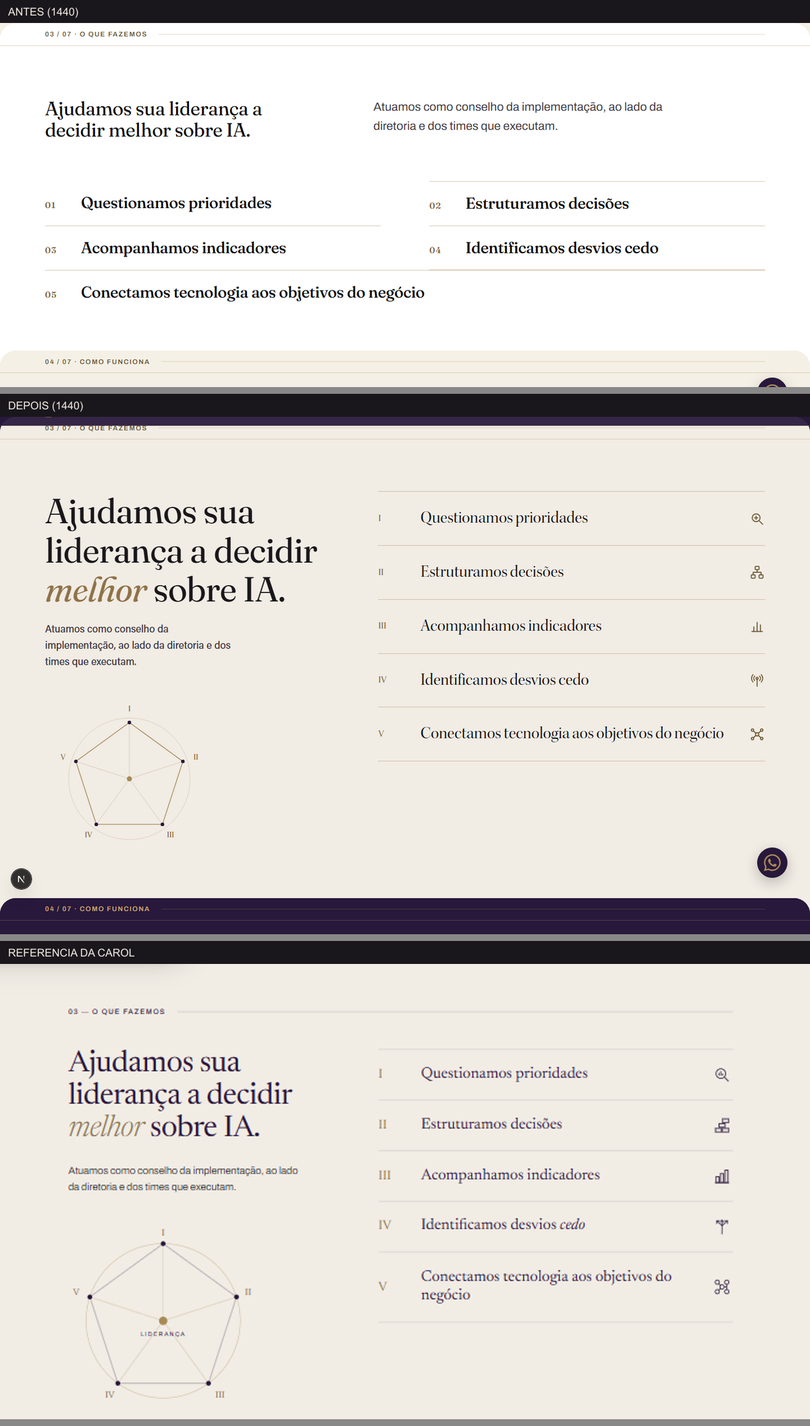
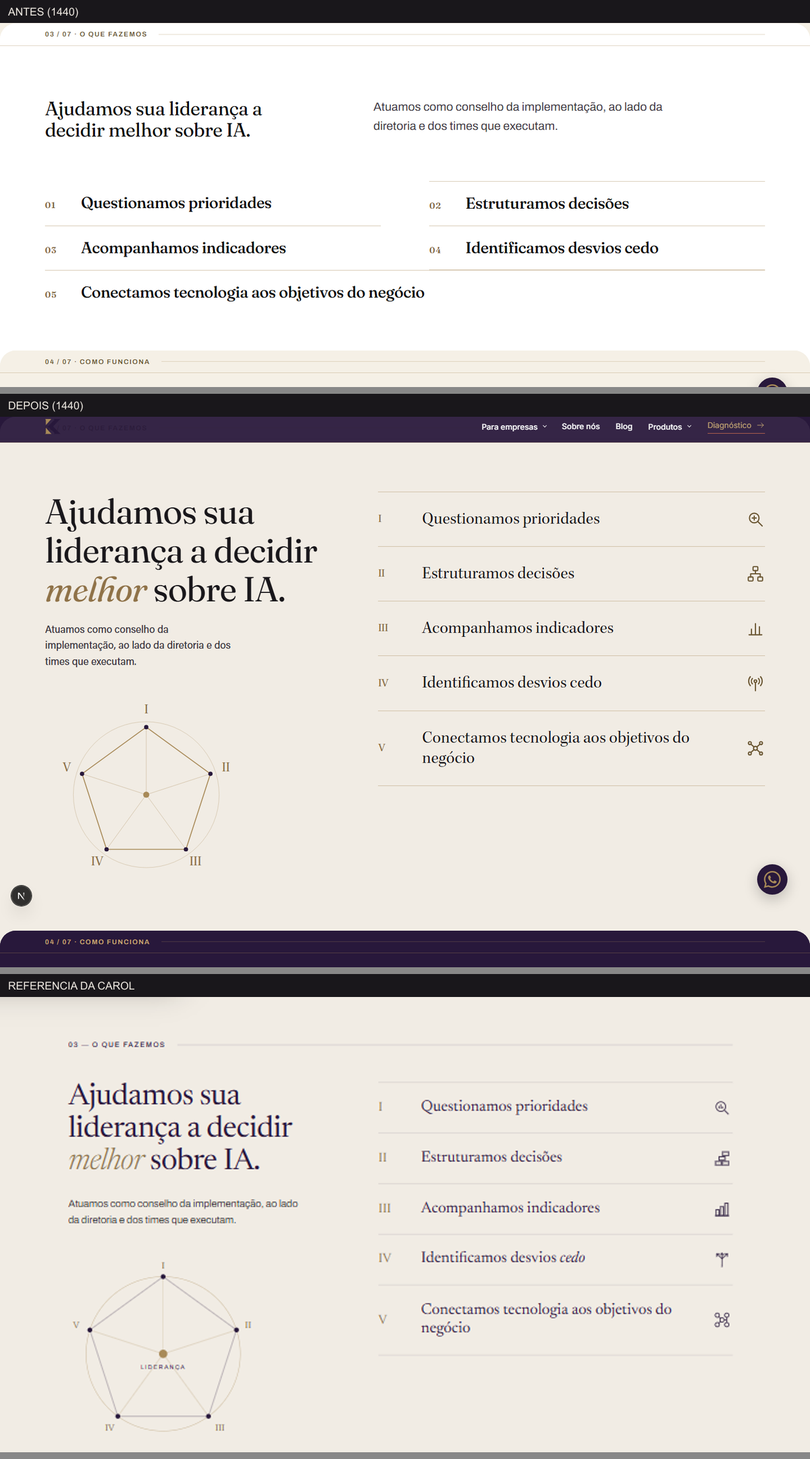
fix(site): Advisory V3 rodada de correcoes: cartoes alinhados, subhead nas linhas pequenas, novo recorte da foto e kit sem bloquear a pintura
V4 com pe em itulico nos tres cartoes (subgrid); V2 ponto final nos quatro itens; V3 romanos e icones maiores;
kepler-std-subhead com tracking 0 abaixo de ~30px; foto reenquadrada sem plaquinhas e arco acima da cortina;
preload + KitFonts (reserva com size-adjust) no lugar do link bloqueante. Relatorio, capturas, quadros e web vitals refeitos.

diff --git a/apps/site/src/app/solucoes/advisory-v3.module.css b/apps/site/src/app/solucoes/advisory-v3.module.css
@@ -19,14 +19,14 @@
 /* Linha do tempo: uma linha fina com um ponto por frase, cada frase numa coluna com filete. */
 .avEvents { list-style: none; margin: clamp(40px, 5vw, 72px) 0 0; padding: 0; display: grid; grid-template-columns: repeat(4, minmax(0, 1fr)); position: relative; }
 .avEvents::before { content: ""; position: absolute; left: 0; right: 0; top: 3px; height: 1px; background: rgba(40, 24, 59, 0.22); }
-.avEvents li { position: relative; padding: 32px 24px 4px 0; font-family: var(--font-title); font-style: italic; font-size: clamp(19px, 1.7vw, 24px); line-height: 1.25; color: var(--ink-text); }
+.avEvents li { position: relative; padding: 32px 24px 4px 0; font-family: var(--font-sub); letter-spacing: 0; font-style: italic; font-size: clamp(19px, 1.7vw, 24px); line-height: 1.3; color: var(--ink-text); }
 .avEvents li + li { padding-left: 24px; border-left: 1px solid var(--rule); }
 .avEvents li::before { content: ""; position: absolute; top: 0; left: 0; width: 7px; height: 7px; border-radius: 50%; background: #b7654d; }
 .avEvents li + li::before { left: 24px; }
 .avEvents li:first-child::before { background: var(--imperial); }
 .avEvents li span { display: block; max-width: 18ch; }
 .avEvents li span::first-letter { text-transform: uppercase; }
-.avEvents li:last-child span::after { content: "."; }
+.avEvents li span::after { content: "."; }
 
 .avProblemBottom { background: var(--imperial); color: var(--limestone); padding: clamp(56px, 6.4vw, 96px) 0 calc(clamp(56px, 6.4vw, 96px) + 36px); margin-bottom: -36px; }
 .avSignature { display: grid; grid-template-columns: minmax(0, 8fr) minmax(0, 4fr); gap: clamp(24px, 5vw, 80px); align-items: center; }
@@ -40,34 +40,36 @@
 .avMarks li { display: grid; gap: 10px; align-content: start; padding: 24px 20px 0 0; font-size: clamp(16px, 1.3vw, 19px); line-height: 1.35; color: var(--limestone); }
 .avMarks li + li { padding-left: 24px; border-left: 1px solid rgba(196, 166, 115, 0.3); }
 .avMarks li span:last-child::first-letter { text-transform: uppercase; }
-.avNum { font-family: var(--font-title); font-size: 24px; line-height: 1; color: var(--gold-light); font-variant-numeric: tabular-nums; }
+.avNum { font-family: var(--font-sub); letter-spacing: 0; font-size: 26px; line-height: 1; color: var(--gold-light); font-variant-numeric: tabular-nums; }
 
 /* ---------- V3: liderança (pentágono + uma coluna de cinco linhas) ---------- */
 .avLeadGrid { display: grid; grid-template-columns: minmax(0, 5fr) minmax(0, 7fr); gap: clamp(32px, 7vw, 120px); align-items: start; }
 .avLeadIntro h2 { font-size: clamp(36px, 4.3vw, 62px); line-height: 1.04; max-width: 13ch; }
 .avLeadIntro p { margin: 22px 0 0; font-size: clamp(16px, 1.25vw, 18px); line-height: 1.6; color: var(--text-2); max-width: 34ch; }
-.avPentFig { margin: clamp(28px, 4vw, 52px) 0 0; width: min(100%, 300px); color: var(--gold); }
+.avPentFig { margin: clamp(28px, 4vw, 52px) 0 0; width: min(100%, 360px); color: var(--gold); }
 .avPentagon { display: block; width: 100%; height: auto; overflow: visible; }
-.avRoman { font-family: var(--font-title); font-size: 15px; fill: var(--gold-text); }
+.avRoman { font-family: var(--font-sub); font-size: 20px; letter-spacing: 0; fill: var(--gold-text); }
 
 .avItems { list-style: none; margin: 0; padding: 0; border-top: 1px solid var(--rule); border-bottom: 1px solid var(--rule); }
-.avItems li { display: grid; grid-template-columns: clamp(40px, 4.4vw, 64px) minmax(0, 1fr) 32px; align-items: center; gap: 12px; padding: clamp(20px, 2.2vw, 30px) 0; }
+.avItems li { display: grid; grid-template-columns: clamp(44px, 4.6vw, 68px) minmax(0, 1fr) 40px; align-items: center; gap: 12px; padding: clamp(20px, 2.2vw, 30px) 0; }
 .avItems li + li { border-top: 1px solid var(--rule); }
-.avRomanNum { font-family: var(--font-title); font-size: 17px; color: var(--gold-text); font-variant-numeric: tabular-nums; }
-.avItemText { font-family: var(--font-title); font-size: clamp(22px, 2.1vw, 31px); line-height: 1.15; letter-spacing: -0.01em; color: var(--ink-text); }
-.avIcon { width: 28px; height: 28px; justify-self: end; color: #6b5733; flex: none; }
+.avRomanNum { font-family: var(--font-sub); letter-spacing: 0; font-size: 20px; color: var(--gold-text); font-variant-numeric: tabular-nums; }
+.avItemText { font-family: var(--font-sub); font-size: clamp(22px, 2.1vw, 31px); line-height: 1.2; letter-spacing: 0; color: var(--ink-text); }
+.avIcon { width: 34px; height: 34px; justify-self: end; color: #6b5733; flex: none; }
 
 /* ---------- V4: rituais (Imperial, cartões Aubergine, faixa Limestone) ---------- */
 .avRituals { background: var(--imperial); color: var(--limestone); padding: clamp(56px, 6.4vw, 96px) 0; }
 .avRitualsTitle { font-size: clamp(36px, 4.4vw, 64px); line-height: 1.04; max-width: 20ch; margin-bottom: clamp(36px, 4.5vw, 64px) !important; }
-.avCards { list-style: none; margin: 0; padding: 0; display: grid; grid-template-columns: repeat(3, minmax(0, 1fr)); gap: clamp(14px, 1.6vw, 24px); }
-.avCards li { display: flex; flex-direction: column; gap: 14px; padding: clamp(24px, 2.4vw, 36px); background: #46304f; border-radius: 18px; box-shadow: inset 0 0 0 1px rgba(196, 166, 115, 0.2); }
+/* Linhas compartilhadas (subgrid): ícone, título, texto e pé ficam na mesma altura nos três cartões; o filete do pé alinha. */
+.avCards { list-style: none; margin: 0; padding: 0; display: grid; grid-template-columns: repeat(3, minmax(0, 1fr)); grid-template-rows: auto auto 1fr auto; column-gap: clamp(14px, 1.6vw, 24px); row-gap: 0; }
+.avCards li { display: grid; grid-row: span 4; grid-template-rows: subgrid; row-gap: 14px; align-content: start; padding: clamp(24px, 2.4vw, 36px); background: #46304f; border-radius: 18px; box-shadow: inset 0 0 0 1px rgba(196, 166, 115, 0.2); }
 .avCardIcon { color: var(--gold-light); margin-bottom: 12px; }
-.avCards h3 { margin: 0; font-size: clamp(26px, 2.3vw, 34px); line-height: 1.1; color: var(--limestone); }
+.avCards h3 { margin: 0; font-size: clamp(26px, 2.3vw, 34px); line-height: 1.1; letter-spacing: 0; color: var(--limestone); }
 .avCards p { margin: 0; font-size: 17px; line-height: 1.55; color: rgba(241, 236, 228, 0.78); }
-.avCards .avCardFoot { margin-top: auto; padding-top: 20px; position: relative; font-family: var(--font-title); font-style: italic; font-size: clamp(17px, 1.4vw, 20px); line-height: 1.35; color: var(--gold-light); }
+.avCards .avCardFoot { padding-top: 20px; position: relative; font-family: var(--font-sub); letter-spacing: 0; font-style: italic; font-size: clamp(18px, 1.45vw, 21px); line-height: 1.35; color: var(--gold-light); }
 .avCards .avCardFoot::before { content: ""; position: absolute; left: 0; right: 0; top: 0; height: 1px; background: rgba(196, 166, 115, 0.35); }
-.avCards li:has(.avCardFoot) h3 + p { margin-bottom: 14px; }
+.avCards .avCardFoot::first-letter { text-transform: uppercase; }
+.avCards li > p:not(.avCardFoot) { margin-bottom: 18px; }
 
 .avReceive { margin-top: clamp(16px, 1.8vw, 24px); background: var(--limestone); color: var(--ink-text); border-radius: 18px; padding: clamp(22px, 2.4vw, 32px) clamp(24px, 3vw, 44px); }
 .avReceiveLabel { margin: 0 0 20px; font-size: 13px; font-weight: var(--w-strong); letter-spacing: 0.14em; text-transform: uppercase; color: var(--ink-text); }
@@ -75,7 +77,7 @@
 .avReceive li { display: flex; align-items: center; gap: 16px; padding: 4px 24px; }
 .avReceive li:first-child { padding-left: 0; }
 .avReceive li + li { border-left: 1px solid var(--rule); }
-.avReceive li span { font-family: var(--font-title); font-size: clamp(17px, 1.5vw, 21px); line-height: 1.3; }
+.avReceive li span { font-family: var(--font-sub); letter-spacing: 0; font-size: clamp(18px, 1.55vw, 22px); line-height: 1.3; }
 .avReceive li span::first-letter { text-transform: uppercase; }
 
 /* ---------- Telas menores ---------- */
@@ -97,8 +99,9 @@
   .avMarks li:nth-child(n + 3) { margin-top: 8px; border-top: 1px solid rgba(196, 166, 115, 0.3); }
   .avPentFig { width: min(78%, 280px); margin-left: auto; margin-right: auto; }
 
-  .avCards { grid-template-columns: minmax(0, 1fr); }
-  .avCards .avCardFoot { margin-top: 6px; }
+  .avCards { grid-template-columns: minmax(0, 1fr); grid-template-rows: none; row-gap: 14px; }
+  .avCards li { display: flex; flex-direction: column; grid-row: auto; gap: 14px; }
+  .avCards li > p:not(.avCardFoot) { margin-bottom: 0; }
   .avReceive ul { grid-template-columns: minmax(0, 1fr); }
   .avReceive li, .avReceive li:first-child { padding: 16px 0; }
   .avReceive li + li { border-left: 0; border-top: 1px solid var(--rule); }

diff --git a/apps/site/src/app/institucional/pages.ts b/apps/site/src/app/institucional/pages.ts
@@ -15,7 +15,8 @@ export type Block =
       eyebrow?: string;
       title: string[];
       intro?: string[];
-      items: Array<{ title: string; text: string; example?: string; href?: string; cta?: string }>;
+      /* `foot`: trecho final de `text` que a Advisory mostra à parte (pé do cartão, em itálico). O texto não muda. */
+      items: Array<{ title: string; text: string; example?: string; href?: string; cta?: string; foot?: string }>;
       columns?: 2 | 3;
       animated?: boolean;
       accent?: string;
@@ -443,7 +444,7 @@ export const advisory: PageContent = {
       support: "Ao lado da liderança. Dentro da execução.",
       cta: { label: "Conversar com um sócio", href: formHref("advisory") },
       /* Foto da capacitação na Fundação Dom Cabral (Drive), recortada para não mostrar as plaquinhas com os nomes dos alunos. */
-      image: { src: "/advisory/comite-fdc.webp", alt: "Palestrante da Kalidash conduz uma capacitação em IA numa sala da Fundação Dom Cabral, com a tela do assistente projetada ao fundo", width: 800, height: 1000 },
+      image: { src: "/advisory/comite-fdc.webp", alt: "Palestrante da Kalidash conduz uma capacitação em IA numa sala da Fundação Dom Cabral, com a tela do assistente projetada ao fundo", width: 664, height: 830 },
       aspect: "landscape",
     },
     {
@@ -480,8 +481,8 @@ export const advisory: PageContent = {
       accent: "rituais",
       items: [
         { title: "Comitê de IA", text: "Encontro mensal com a liderança para revisar prioridades, indicadores e decisões em aberto. É o ritual que impede a iniciativa de morrer na primeira urgência do mês." },
-        { title: "Acompanhamento de iniciativas", text: "Proximidade com os times que executam, para destravar o que emperrou antes de virar problema de diretoria." },
-        { title: "Mentoria executiva", text: "Conversas individuais com líderes que conduzem a mudança e precisam de um olhar externo e experiente." },
+        { title: "Acompanhamento de iniciativas", text: "Proximidade com os times que executam, para destravar o que emperrou antes de virar problema de diretoria.", foot: "antes de virar problema de diretoria." },
+        { title: "Mentoria executiva", text: "Conversas individuais com líderes que conduzem a mudança e precisam de um olhar externo e experiente.", foot: "e precisam de um olhar externo e experiente." },
       ],
       // Exemplo sugerido pela Carol entre colchetes no doc; confirmar os entregáveis reais.
       closing: ["**O que a liderança recebe:** painel com os indicadores das iniciativas · relatório mensal de decisões e desvios · roadmap priorizado, revisado a cada trimestre."],

diff --git a/apps/site/src/app/solucoes/kit.module.css b/apps/site/src/app/solucoes/kit.module.css
@@ -300,8 +300,10 @@ header.long h1 { font-size: clamp(40px, 6vw, 88px); }
  * Hoje o kit tem 400 e 700; quando a Carol incluir Light e Semibold, troque só --w-title (300) e --w-strong (600) aqui.
  * Títulos nunca em 700. */
 .v3 .main {
-  --font-title: "kepler-std-display", Georgia, "Times New Roman", serif;
-  --font-body: "acumin-pro", system-ui, -apple-system, "Segoe UI", sans-serif;
+  /* Até o kit carregar (data-fonts="ready", posto por KitFonts.tsx) valem as reservas com métrica ajustada. */
+  --font-title: "kit-kepler-reserva", Georgia, "Times New Roman", serif;
+  --font-sub: "kit-kepler-reserva", Georgia, "Times New Roman", serif;
+  --font-body: "kit-acumin-reserva", system-ui, -apple-system, "Segoe UI", sans-serif;
   --w-title: 400;
   --w-strong: 700;
   --limestone: #f1ece4;
@@ -317,6 +319,14 @@ header.long h1 { font-size: clamp(40px, 6vw, 88px); }
   font-family: var(--font-body);
   background: var(--limestone);
 }
+/* Display nos títulos grandes; Subhead (desenhada para tamanho pequeno) com tracking 0 abaixo de ~30 px. */
+.v3 .main[data-fonts="ready"] {
+  --font-title: "kepler-std-display", Georgia, "Times New Roman", serif;
+  --font-sub: "kepler-std-subhead", "kepler-std-display", Georgia, "Times New Roman", serif;
+  --font-body: "acumin-pro", system-ui, -apple-system, "Segoe UI", sans-serif;
+}
+@font-face { font-family: "kit-kepler-reserva"; src: local("Georgia"), local("Times New Roman"); size-adjust: 88%; ascent-override: 98%; descent-override: 26%; line-gap-override: 0%; }
+@font-face { font-family: "kit-acumin-reserva"; src: local("Segoe UI"), local("Arial"); size-adjust: 100%; }
 .v3 .main :is(strong, dt, button, [class*="Button"], [class*="eyebrow"], [class*="chip"]) { font-family: var(--font-body); }
 .v3 .main :is(h1, h2, h3, summary) { font-family: var(--font-title); font-weight: var(--w-title); letter-spacing: -0.012em; text-wrap: balance; }
 .v3 .main strong { font-weight: var(--w-strong); }
@@ -328,5 +338,6 @@ header.long h1 { font-size: clamp(40px, 6vw, 88px); }
 .v3 .heroLead strong { color: var(--limestone); }
 .v3 .heroMeta { color: var(--gold-light); }
 /* O arco da foto: a mesma proporção do recorte (4:5), sem esticar. */
-.v3 .heroArch { background: #46304f; }
+/* O arco sobe 44 px do pé da abertura: a cortina do capítulo seguinte não corta mais o palestrante. */
+.v3 .heroArch { background: #46304f; margin-bottom: 44px; border-radius: 999px 999px 18px 18px; }
 .v3 .heroArch img { object-position: 50% 50%; }

diff --git a/apps/site/src/app/solucoes/KitPage.tsx b/apps/site/src/app/solucoes/KitPage.tsx
@@ -12,6 +12,7 @@ import BuildStory from "./BuildStory";
 import StepsPin from "./StepsPin";
 import ScrollMotion from "./ScrollMotion";
 import { BlockView, HeroView, Legend, toneMap } from "./ProductPage";
+import KitFonts from "./KitFonts";
 import { Accent, LeadershipView, ProblemView, RitualsView, canProblem } from "./AdvisoryViews";
 import prod from "./product.module.css";
 import sol from "./solucoes.module.css";
@@ -255,8 +256,15 @@ export default function KitPage({ page, closing }: { page: PageContent; closing:
   const chapterBlocks = page.blocks.filter((b) => b.type !== "heroMedia" && b.type !== "testimonials" && b.type !== "proofBar");
   return (
     <div className={`${home.home} ${sol.page} ${fraunces.variable}${darkHero ? ` ${styles.kitDark}` : ""}${v3 ? ` ${styles.v3}` : ""} ${styles.chapters}`} data-page={page.slug}>
-      {/* Kit Adobe (Kepler Display + Acumin), só nesta página e só dentro do <main>: o cabeçalho e o rodapé mantêm as fontes de hoje. */}
-      {v3 && <link rel="stylesheet" href="https://use.typekit.net/krs4uwp.css" precedence="default" />}
+      {/* Kit Adobe (Kepler + Acumin), só nesta página e só dentro do <main>: o cabeçalho e o rodapé mantêm as fontes de hoje. O CSS do kit
+          não bloqueia a primeira pintura: preload aqui, aplicação e troca de fonte em KitFonts (reserva com métrica ajustada até lá). */}
+      {v3 && (
+        <>
+          <link rel="preconnect" href="https://use.typekit.net" crossOrigin="anonymous" />
+          <link rel="preload" as="style" href="https://use.typekit.net/krs4uwp.css" />
+          <KitFonts />
+        </>
+      )}
       <HomeHeader />
       <main className={styles.main}>
         {portrait ? <HeroView hero={hero} kind="photo" /> : <HeroWide block={hero} />}

diff --git a/apps/site/src/app/solucoes/KitFonts.tsx b/apps/site/src/app/solucoes/KitFonts.tsx
@@ -1,0 +1,32 @@
+"use client";
+
+import { useEffect } from "react";
+
+/* Kit Adobe (Kepler + Acumin) da Advisory sem bloquear a primeira pintura. O <link rel="preload"> no KitPage começa o download cedo;
+ * aqui o CSS do kit é aplicado depois da carga e só então o <main> recebe data-fonts="ready" (kit.module.css troca as fontes de reserva
+ * com métrica ajustada pelas reais), sem texto invisível e sem salto de layout. Mesmo padrão da Home (HomePage.tsx). */
+const KIT = "https://use.typekit.net/krs4uwp.css";
+const FACES = ['400 1em "kepler-std-display"', 'italic 400 1em "kepler-std-display"', '400 1em "kepler-std-subhead"', 'italic 400 1em "kepler-std-subhead"', '400 1em "acumin-pro"', '700 1em "acumin-pro"'];
+
+export default function KitFonts() {
+  useEffect(() => {
+    const main = document.querySelector("main");
+    if (!main) return;
+    const link = document.createElement("link");
+    link.rel = "stylesheet";
+    link.href = KIT;
+    document.head.appendChild(link);
+    let done = false;
+    const finish = () => {
+      if (done) return;
+      done = true;
+      main.setAttribute("data-fonts", "ready");
+    };
+    link.addEventListener("load", () => {
+      Promise.all(FACES.map((f) => document.fonts.load(f))).then(finish, finish);
+    });
+    const timeout = window.setTimeout(finish, 5000);
+    return () => window.clearTimeout(timeout);
+  }, []);
+  return null;
+}

diff --git a/apps/site/src/app/solucoes/AdvisoryViews.tsx b/apps/site/src/app/solucoes/AdvisoryViews.tsx
@@ -215,7 +215,9 @@ export function RitualsView({ block }: { block: Of<"cards"> }) {
         <h2 className={styles.avRitualsTitle}><Accent text={title} word={block.accent} className={styles.goldEmDark} /></h2>
         <ul className={styles.avCards}>
           {block.items.map((item, i) => {
-            const { body, foot } = splitFoot(item.text);
+            const { body, foot } = item.foot && item.text.endsWith(item.foot)
+              ? { body: item.text.slice(0, -item.foot.length).trim().replace(/[,;]$/, ""), foot: item.foot }
+              : splitFoot(item.text);
             const Icon = ritualIcons[i % ritualIcons.length];
             return (
               <li key={item.title}>

diff --git a/docs/po/relatorios/v3-b-internas.md b/docs/po/relatorios/v3-b-internas.md
@@ -1,4 +1,6 @@
-# V3 · Sessão B (internas): primeira entrega, B0 + Advisory (V1 a V4)
+# V3 · Sessão B (internas): primeira entrega, B0 + Advisory (V1 a V4), com a rodada de correções do PO
+
+> **Rodada 2 (revisão do PO, nota 8,5):** ver a seção "Rodada de correções" logo abaixo; ela prevalece sobre o que estiver diferente no resto do texto (recorte da foto, web vitals, tipografia pequena).
 
 Branch `claude/v3-internas-d70d92`, a partir de `240a2bb`. Sem push, sem merge. AI Culture e Execução **não foram tocadas** (aguardam aprovação do PO; C1 e E2 seguem bloqueados).
 Capturas em `docs/po/relatorios/v3-b-internas/` (cada `V*-1440.png` empilha ANTES / DEPOIS / REFERÊNCIA; `V*-390.png` põe antes e depois lado a lado).
@@ -16,13 +18,36 @@ Palavras em destaque (itálico dourado): Advisory `resultado.` (hero), `E agora?
 
 ## Seção por seção (três linhas antes de desenhar)
 
-**V1 Hero.** A referência `doc-17.png` **não está** na pasta `_assets-carol/v3/` (só `advisory-foto-drive.jpg`); segui o brief. Reproduzo o arco atual com a foto do Drive; deixo de fora qualquer rótulo ou moldura nova. O recorte sobe para a tela projetada e o palestrante, e corta fora a bancada com as plaquinhas (ver `V1-recorte-da-foto.png`, retângulo vermelho).
+**V1 Hero.** `doc-17.png` (que faltava na 1ª entrega) é o hero "de hoje" do doc: serve de comparação, não de alvo. Reproduzo o arco atual com a foto do Drive; deixo de fora qualquer rótulo ou moldura nova. O recorte sobe para a tela projetada e o palestrante, e corta fora a bancada com as plaquinhas (ver `V1-recorte-da-foto.png`, retângulo vermelho).
 
 **V2 "A estratégia foi definida".** A referência separa o problema (Limestone) da resposta (Imperial). Reproduzo: título com "E agora?" dourado + parágrafo à direita; linha do tempo com os 4 eventos (colunas com filete e ponto sobre a linha); parte Imperial com "Não entregamos um plano." atenuado, "Acompanhamos o que acontece" forte, "depois dele." dourado; régua 01–04 em ouro. Deixo de fora "Plano aprovado" e "Fim do 1º trimestre" (copy nova). Tudo no mesmo capítulo: contagem e cortina intactas.
 
 **V3 "Ajudamos sua liderança".** A referência dá título + apoio à esquerda e uma coluna única de 5 linhas à direita. Reproduzo: coluna única com romano (I a V) à esquerda e ícone de linha à direita, filete entre as linhas, pentágono SVG inline `aria-hidden` em linha ouro. Deixo de fora o rótulo "Liderança" no centro (texto novo) e a numeração 01–05 (o brief proíbe).
 
 **V4 "Três rituais".** A referência dá cartões escuros com ícone, título, descrição e frase final em itálico, mais uma faixa clara. Reproduzo: seção Imperial, 3 cartões Aubergine (raio 18 px), ícone ouro, frase final de "Comitê de IA" separada por filete em itálico ouro, faixa Limestone com 3 colunas e ícone (texto do `closing`). Deixo de fora as pílulas "Mensal/Contínuo/Individual", "I · Com a liderança", o texto de apoio à direita do título e os subtítulos da faixa (todos copy nova); aguardam decisão da Carol.
+
+## Rodada de correções (revisão do PO)
+
+1. **V4, cartões 2 e 3 com vazio.** Novo campo opcional `foot` nos itens de `cards` (`pages.ts`): é o trecho final do `text`, que a Advisory mostra à parte. "antes de virar problema de diretoria." e "e precisam de um olhar externo e experiente." vão ao pé, em itálico ouro; primeira letra maiúscula só por CSS. O texto de `pages.ts` não mudou. Os três cartões usam `subgrid`: ícone, título, texto e filete ficam na mesma altura no desktop. No celular volta a pilha simples.
+2. **V2, ponto final.** Os quatro itens da linha do tempo terminam com ponto (CSS), todos iguais.
+3. **V3.** Romanos de 17 px para 20 px (lista) e de 15 px para 20 px (pentágono), em Kepler Subhead e no ouro acessível `#8F7248`. Ícones 28 para 34 px, pentágono 300 para 360 px.
+4. **Serifa pequena.** Nova variável `--font-sub` (`kepler-std-subhead`, `letter-spacing: 0`) para: linhas de V3, linha do tempo, régua 01–04, pé dos cartões, faixa Limestone de V4 e os romanos. Títulos grandes seguem em Display. Os `h3` dos cartões (26 a 34 px) ficaram em Display com tracking 0.
+5. **V1.** Novo recorte (x 380–712, y 520–935 do original, 664×830, WebP): sem plaquinha nenhuma (conferi o canto inferior direito, onde aparecia a ponta de uma) e menos teto. O arco sobe 44 px do pé da abertura (`margin-bottom` com cantos de baixo arredondados), então a cortina do capítulo seguinte não corta mais o palestrante. Em 1440×900 e em 390 o palestrante aparece inteiro até os joelhos.
+6. **FCP.** Mesmo padrão da Home (`081a733`), sem editar a Home: `preconnect` + `preload` do CSS no `KitPage`, e o novo `KitFonts.tsx` (cliente) aplica o CSS depois da carga e marca `main[data-fonts="ready"]` quando as fontes carregaram. Até lá valem as reservas `kit-kepler-reserva` e `kit-acumin-reserva` com métrica ajustada (`size-adjust`), então não há texto invisível.
+
+**Web vitals da Advisory, depois da rodada** (build de produção, Lighthouse 12, mediana de 3; `webvitals-antes.json` × `webvitals-depois.json`):
+
+| | LCP | CLS | TBT | FCP | Fonte transferida |
+|---|---|---|---|---|---|
+| mobile, baseline | 4885 ms | 0 | 42 ms | 1965 ms | 323 KB |
+| mobile, 1ª entrega | 4723 ms | 0 | 47 ms | 2361 ms | 626 KB |
+| mobile, agora | **4632 ms** | 0,015 | 35 ms | **1968 ms** | 876 KB |
+| desktop, baseline | 942 ms | 0 | 0 | 495 ms | 323 KB |
+| desktop, agora | **893 ms** | 0 | 0 | 535 ms | 876 KB |
+
+O FCP volta ao nível do baseline no celular (de 2361 para 1968 ms) e o LCP melhora nos dois perfis. Sobra +40 ms de FCP no desktop e um CLS de 0,015 no celular (a troca da reserva pela fonte real; abaixo do limite de 0,1). O peso de fonte sobe (876 KB) porque a Subhead entrou na carga, mas agora sem bloquear a pintura.
+
+**Conferências repetidas na rodada:** `tsc` e `build` passam; lint com o mesmo erro preexistente de `DiagnosticoForm.tsx`; `/kognis`, `/spectra` e `/solucoes` com 0 px de diferença, `/sobre-nos` 0 px contra o baseline recapturado; cabeçalho idêntico (JSON `antes` × `depois`); 1440, 1024, 768 e 390 sem rolagem horizontal e sem erro de console; quadros de movimento refeitos (desktop, iPhone simulado e movimento reduzido) com cascata do hero, cortina, rótulo e surge intactos. Copy: nenhuma palavra mudou (mesma análise de antes; os pés dos cartões 2 e 3 só repartem frases existentes).
 
 ## Decisões a registrar
 
@@ -66,13 +91,12 @@ LCP não piorou (a foto nova é 26 KB contra 91 a 109 KB da Escola de Atenas). O
 
 ## Riscos e o que falta
 
-1. Typekit é terceiro e bloqueante (FCP). O kit só traz 400 e 700; títulos usam 400 (certo). Quando a Carol incluir Light/Semibold, trocar `--w-title`/`--w-strong`.
+1. Typekit é terceiro (agora não bloqueia a pintura, ver a rodada de correções). O kit só traz 400 e 700; títulos usam 400 (certo). Quando a Carol incluir Light/Semibold, trocar `--w-title`/`--w-strong`.
 2. `v3` está ligado só à Advisory (`const v3 = page.slug === "advisory"` em `KitPage`). AI Culture e Execução seguem com Fraunces/Archivo até a próxima etapa.
-3. Foto com pouca resolução (ver autoavaliação).
+3. Foto com pouca resolução: o recorte novo tem 332 px de origem, ampliado para 664 (mole em tela retina). Uma foto maior do Drive resolveria.
 4. Ícones desenhados à mão (`AdvisoryViews.tsx`).
-5. `doc-17.png` ausente da pasta de referências.
 6. `/consultoria-governanca-ia` renderiza o mesmo conteúdo e herda tudo (checar no merge).
 
 ## Commits
 
-Um commit nesta entrega (B0 + Advisory V1 a V4 + relatório), no branch `claude/v3-internas-d70d92`.
+Dois commits no branch `claude/v3-internas-d70d92`: `524ec8c` (B0 + Advisory V1 a V4 + relatório) e o da rodada de correções.
